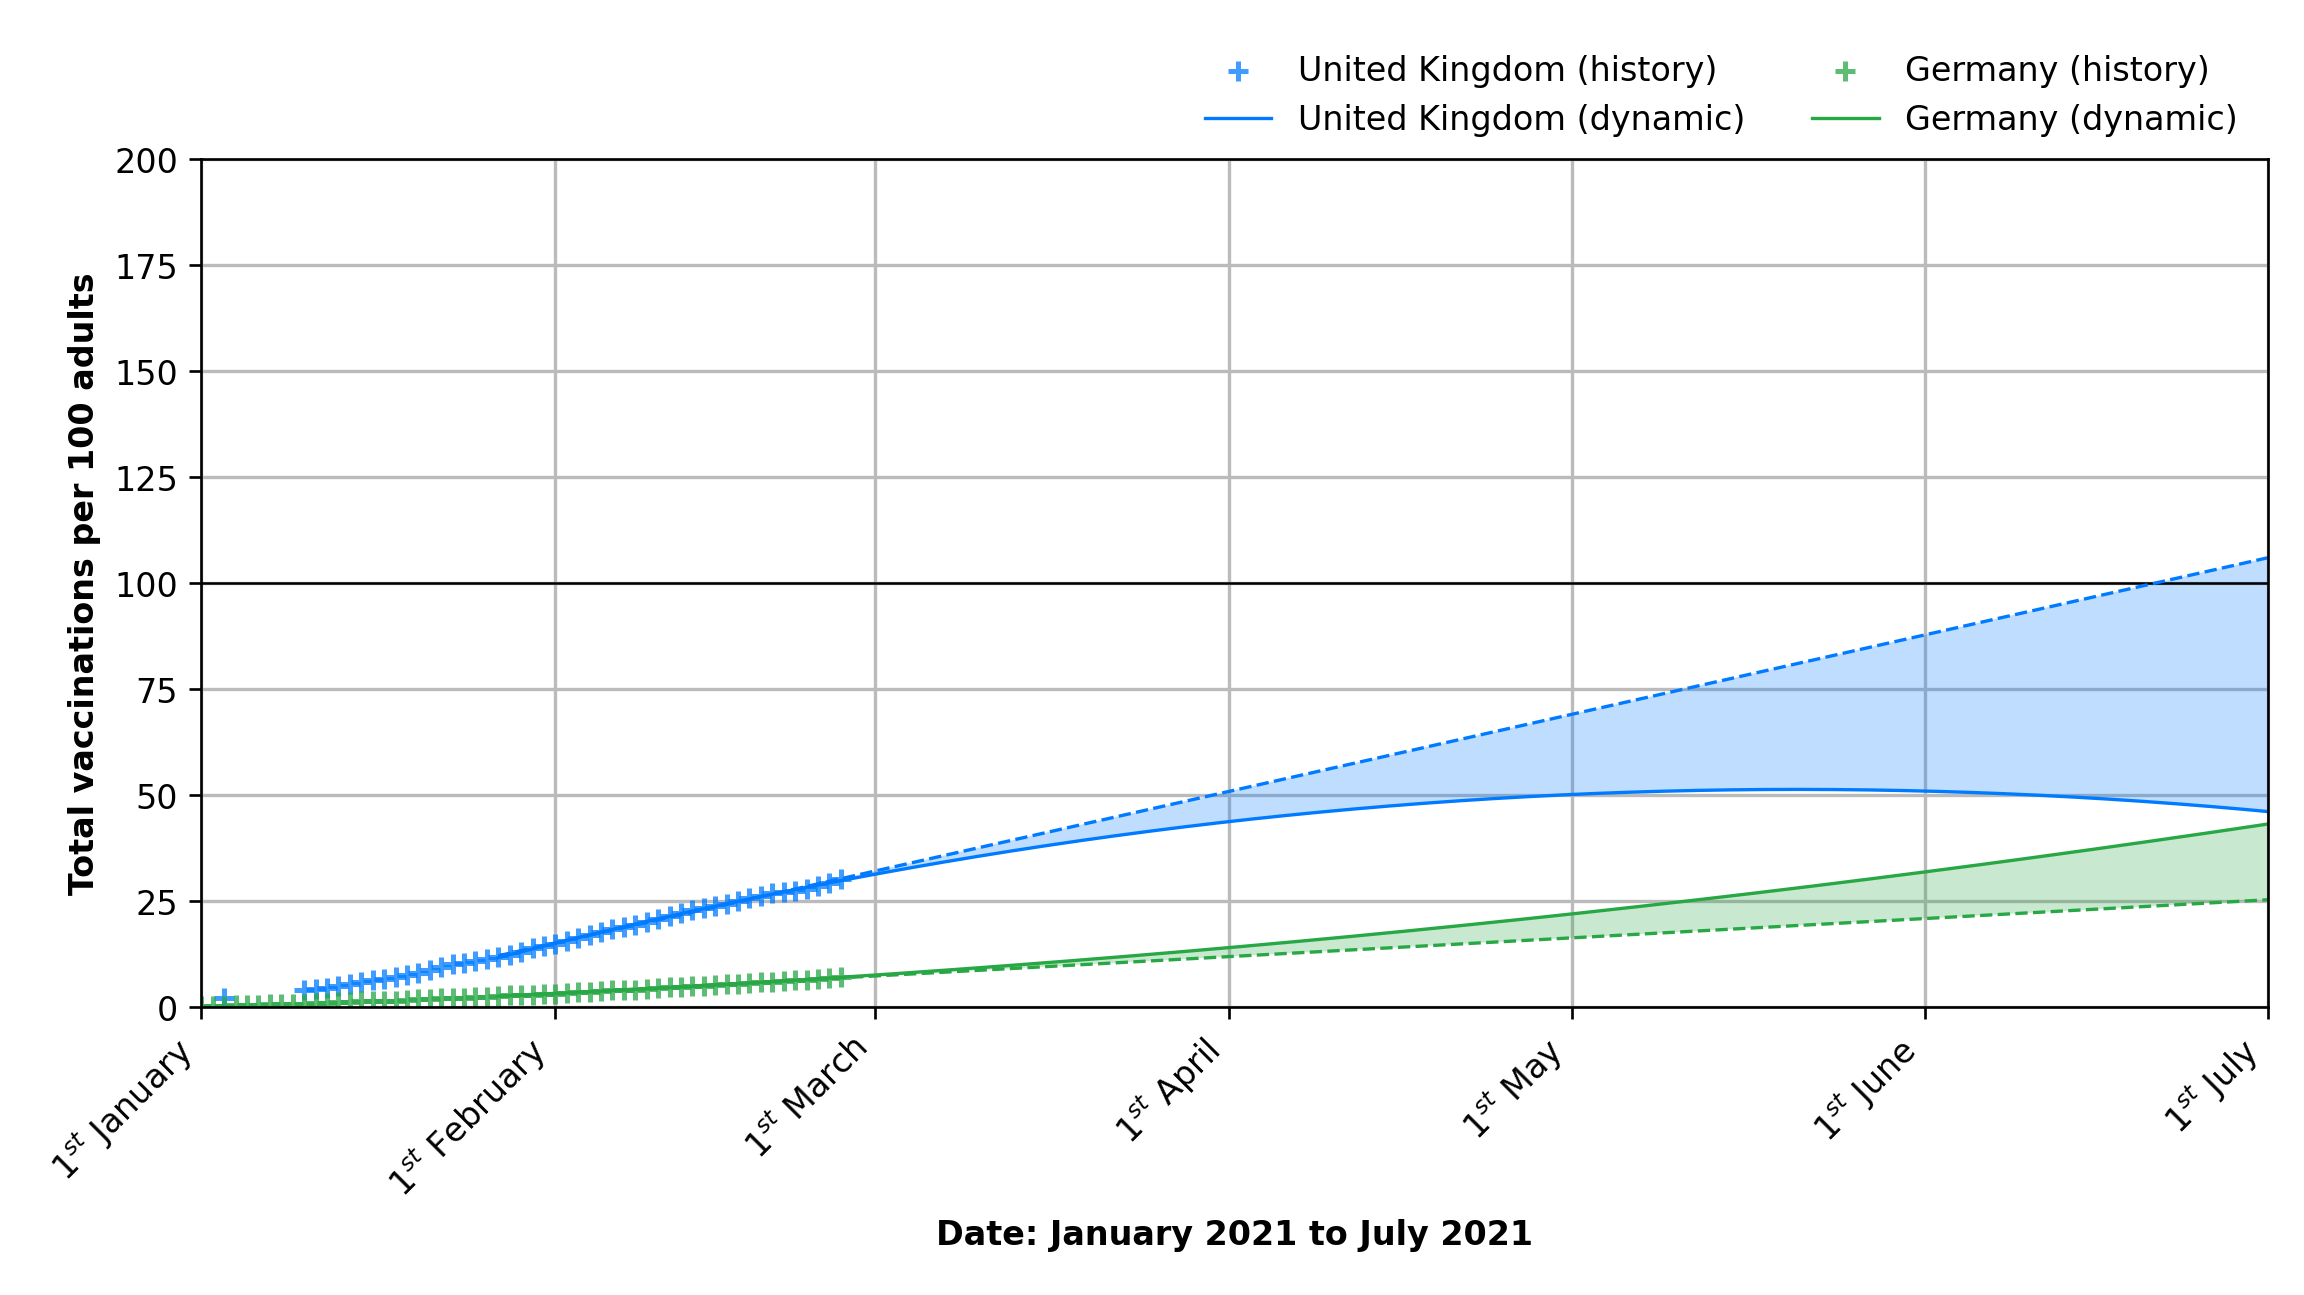
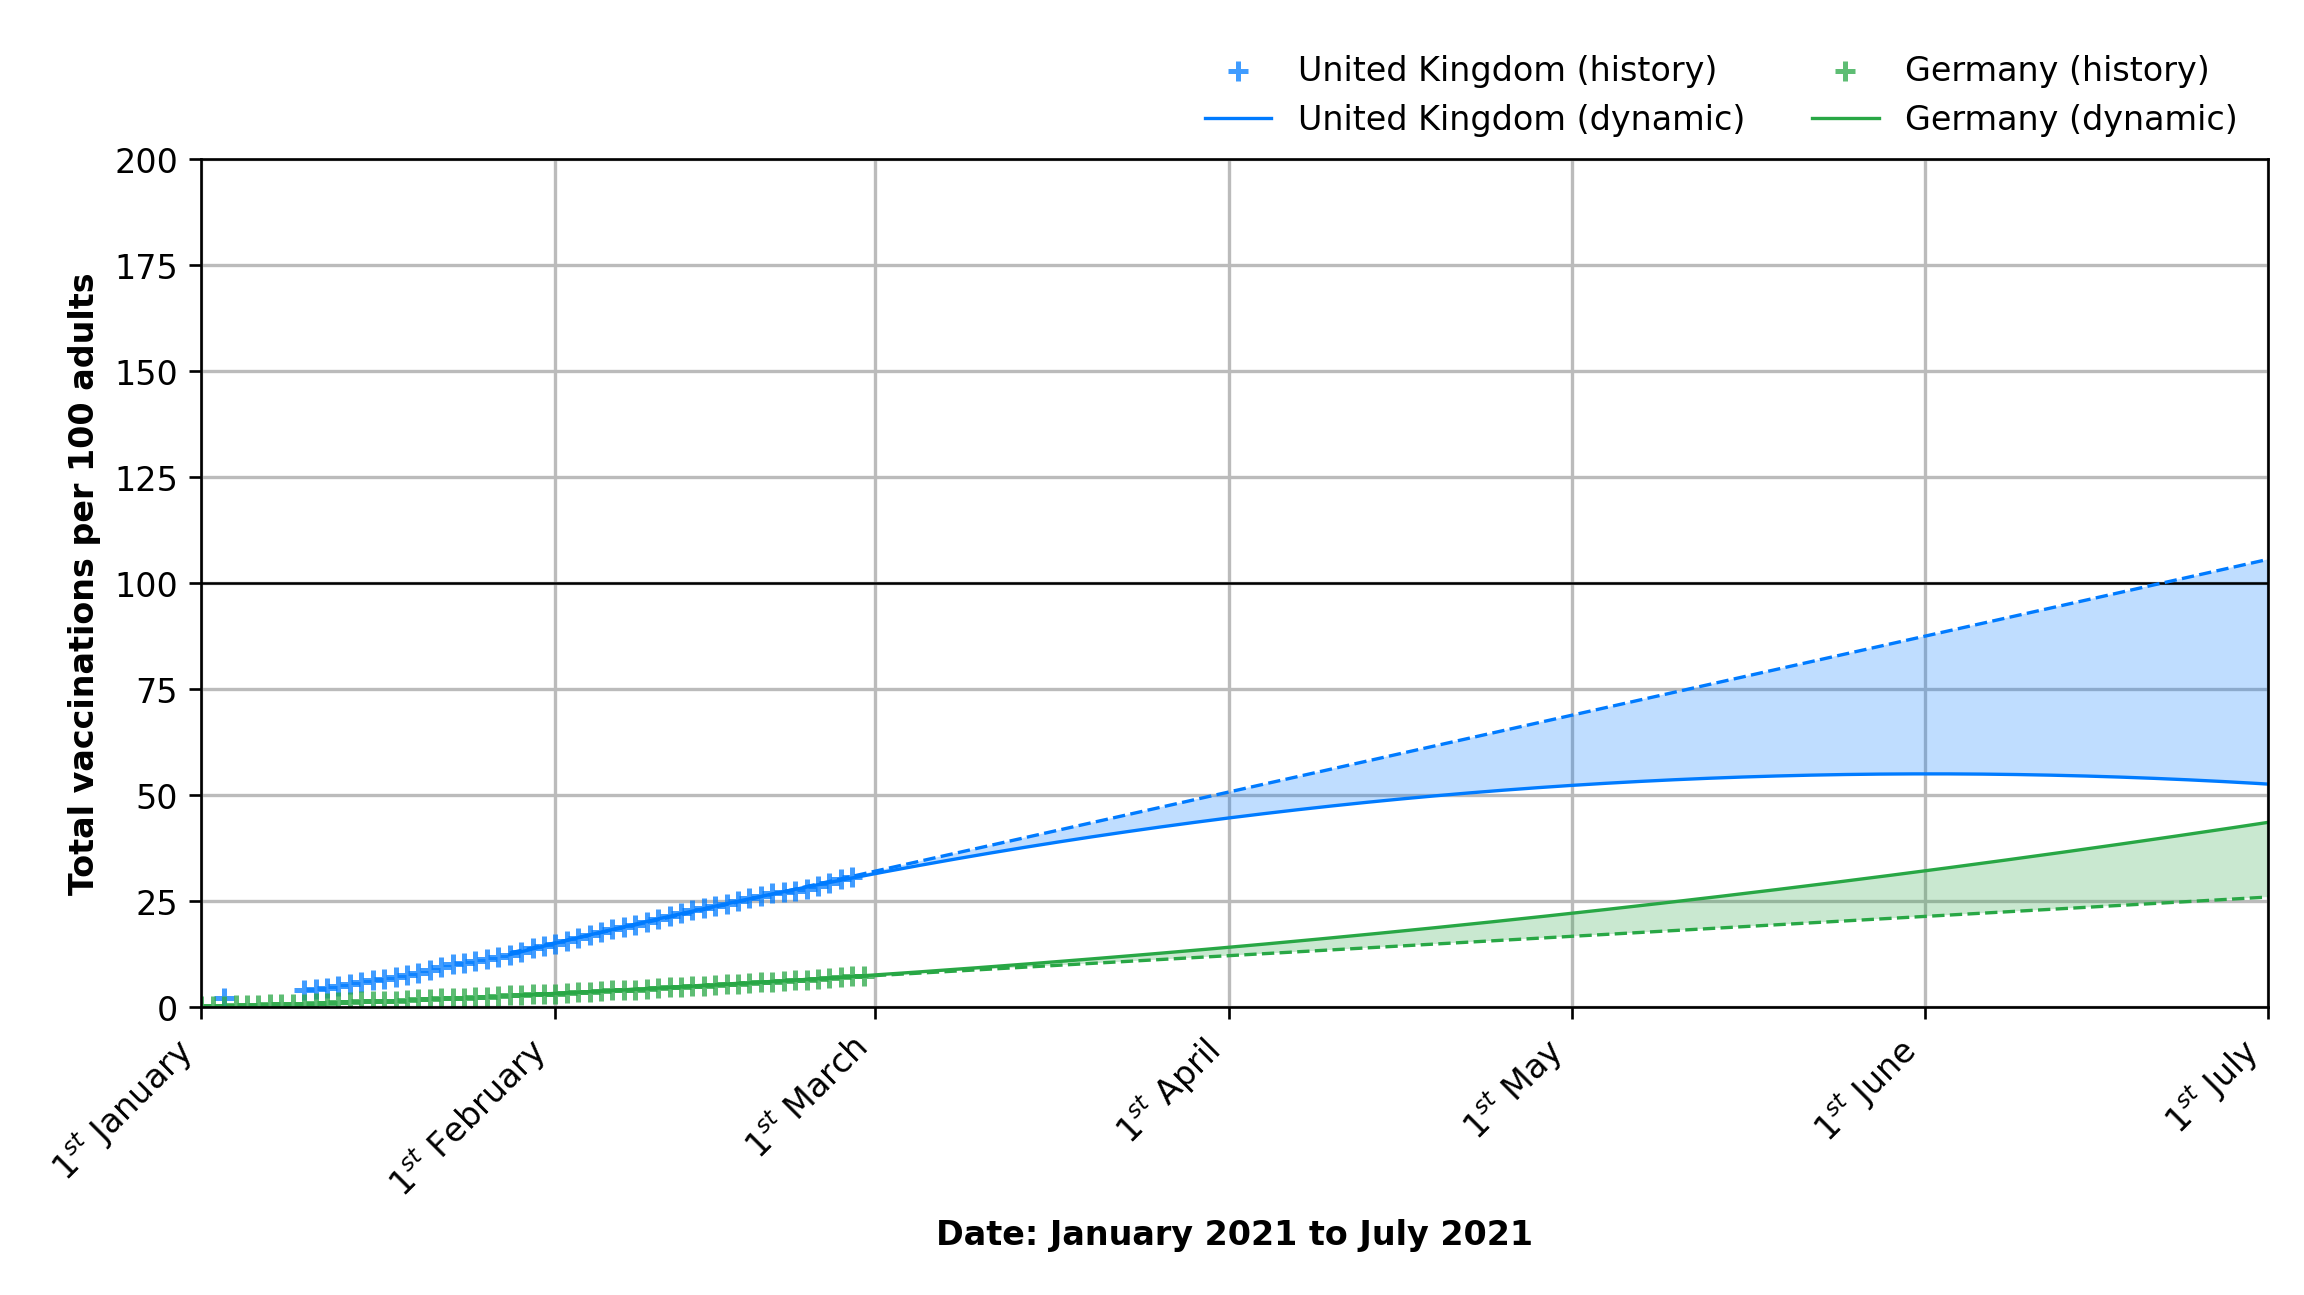
Deploying to gh-pages from @ lambdapioneer/vactrend@1b8b436be16664886d7738f8712cdc14d83be6f4 🚀

diff --git a/index.html b/index.html
@@ -37,13 +37,13 @@
                 <div class="card">
                     <div class="card-header">🇬🇧 United Kingdom</div>
                     <div class="card-body">
-                        <h3 class="font-weight-bold" style="color: #007bff">30.13 <small>(+0.80/d)</small></h3>
+                        <h3 class="font-weight-bold" style="color: #007bff">30.77 <small>(+0.64/d)</small></h3>
                         <p class="mt-n2">Vaccinations per 100 adults</p>
                         <h3 class=" font-weight-bold">22 June 2021</h3>
                         <p class="mt-n2">Earliest day: 100 vacc. per 100 adults</p>
-                        <h3 class=" font-weight-bold">04 December 2021</h3>
+                        <h3 class=" font-weight-bold">05 December 2021</h3>
                         <p class="mt-n2">Earliest day: 200 vacc. per 100 adults</p>
-                        <p class="card-text"><small class="text-muted">Last data from 26 February 2021.</small></p>
+                        <p class="card-text"><small class="text-muted">Last data from 27 February 2021.</small></p>
                     </div>
                 </div>
             </div>
@@ -52,13 +52,13 @@
                 <div class="card">
                     <div class="card-header">🇩🇪 Germany</div>
                     <div class="card-body">
-                        <h3 class="font-weight-bold" style="color: #28a745">7.05 <small>(+0.19/d)</small></h3>
+                        <h3 class="font-weight-bold" style="color: #28a745">7.37 <small>(+0.13/d)</small></h3>
                         <p class="mt-n2">Vaccinations per 100 adults</p>
-                        <h3 class=" font-weight-bold">22 October 2021</h3>
+                        <h3 class=" font-weight-bold">20 October 2021</h3>
                         <p class="mt-n2">Earliest day: 100 vacc. per 100 adults</p>
-                        <h3 class=" font-weight-bold">07 March 2022</h3>
+                        <h3 class=" font-weight-bold">04 March 2022</h3>
                         <p class="mt-n2">Earliest day: 200 vacc. per 100 adults</p>
-                        <p class="card-text"><small class="text-muted">Last data from 26 February 2021.</small></p>
+                        <p class="card-text"><small class="text-muted">Last data from 28 February 2021.</small></p>
                     </div>
                 </div>
             </div>
